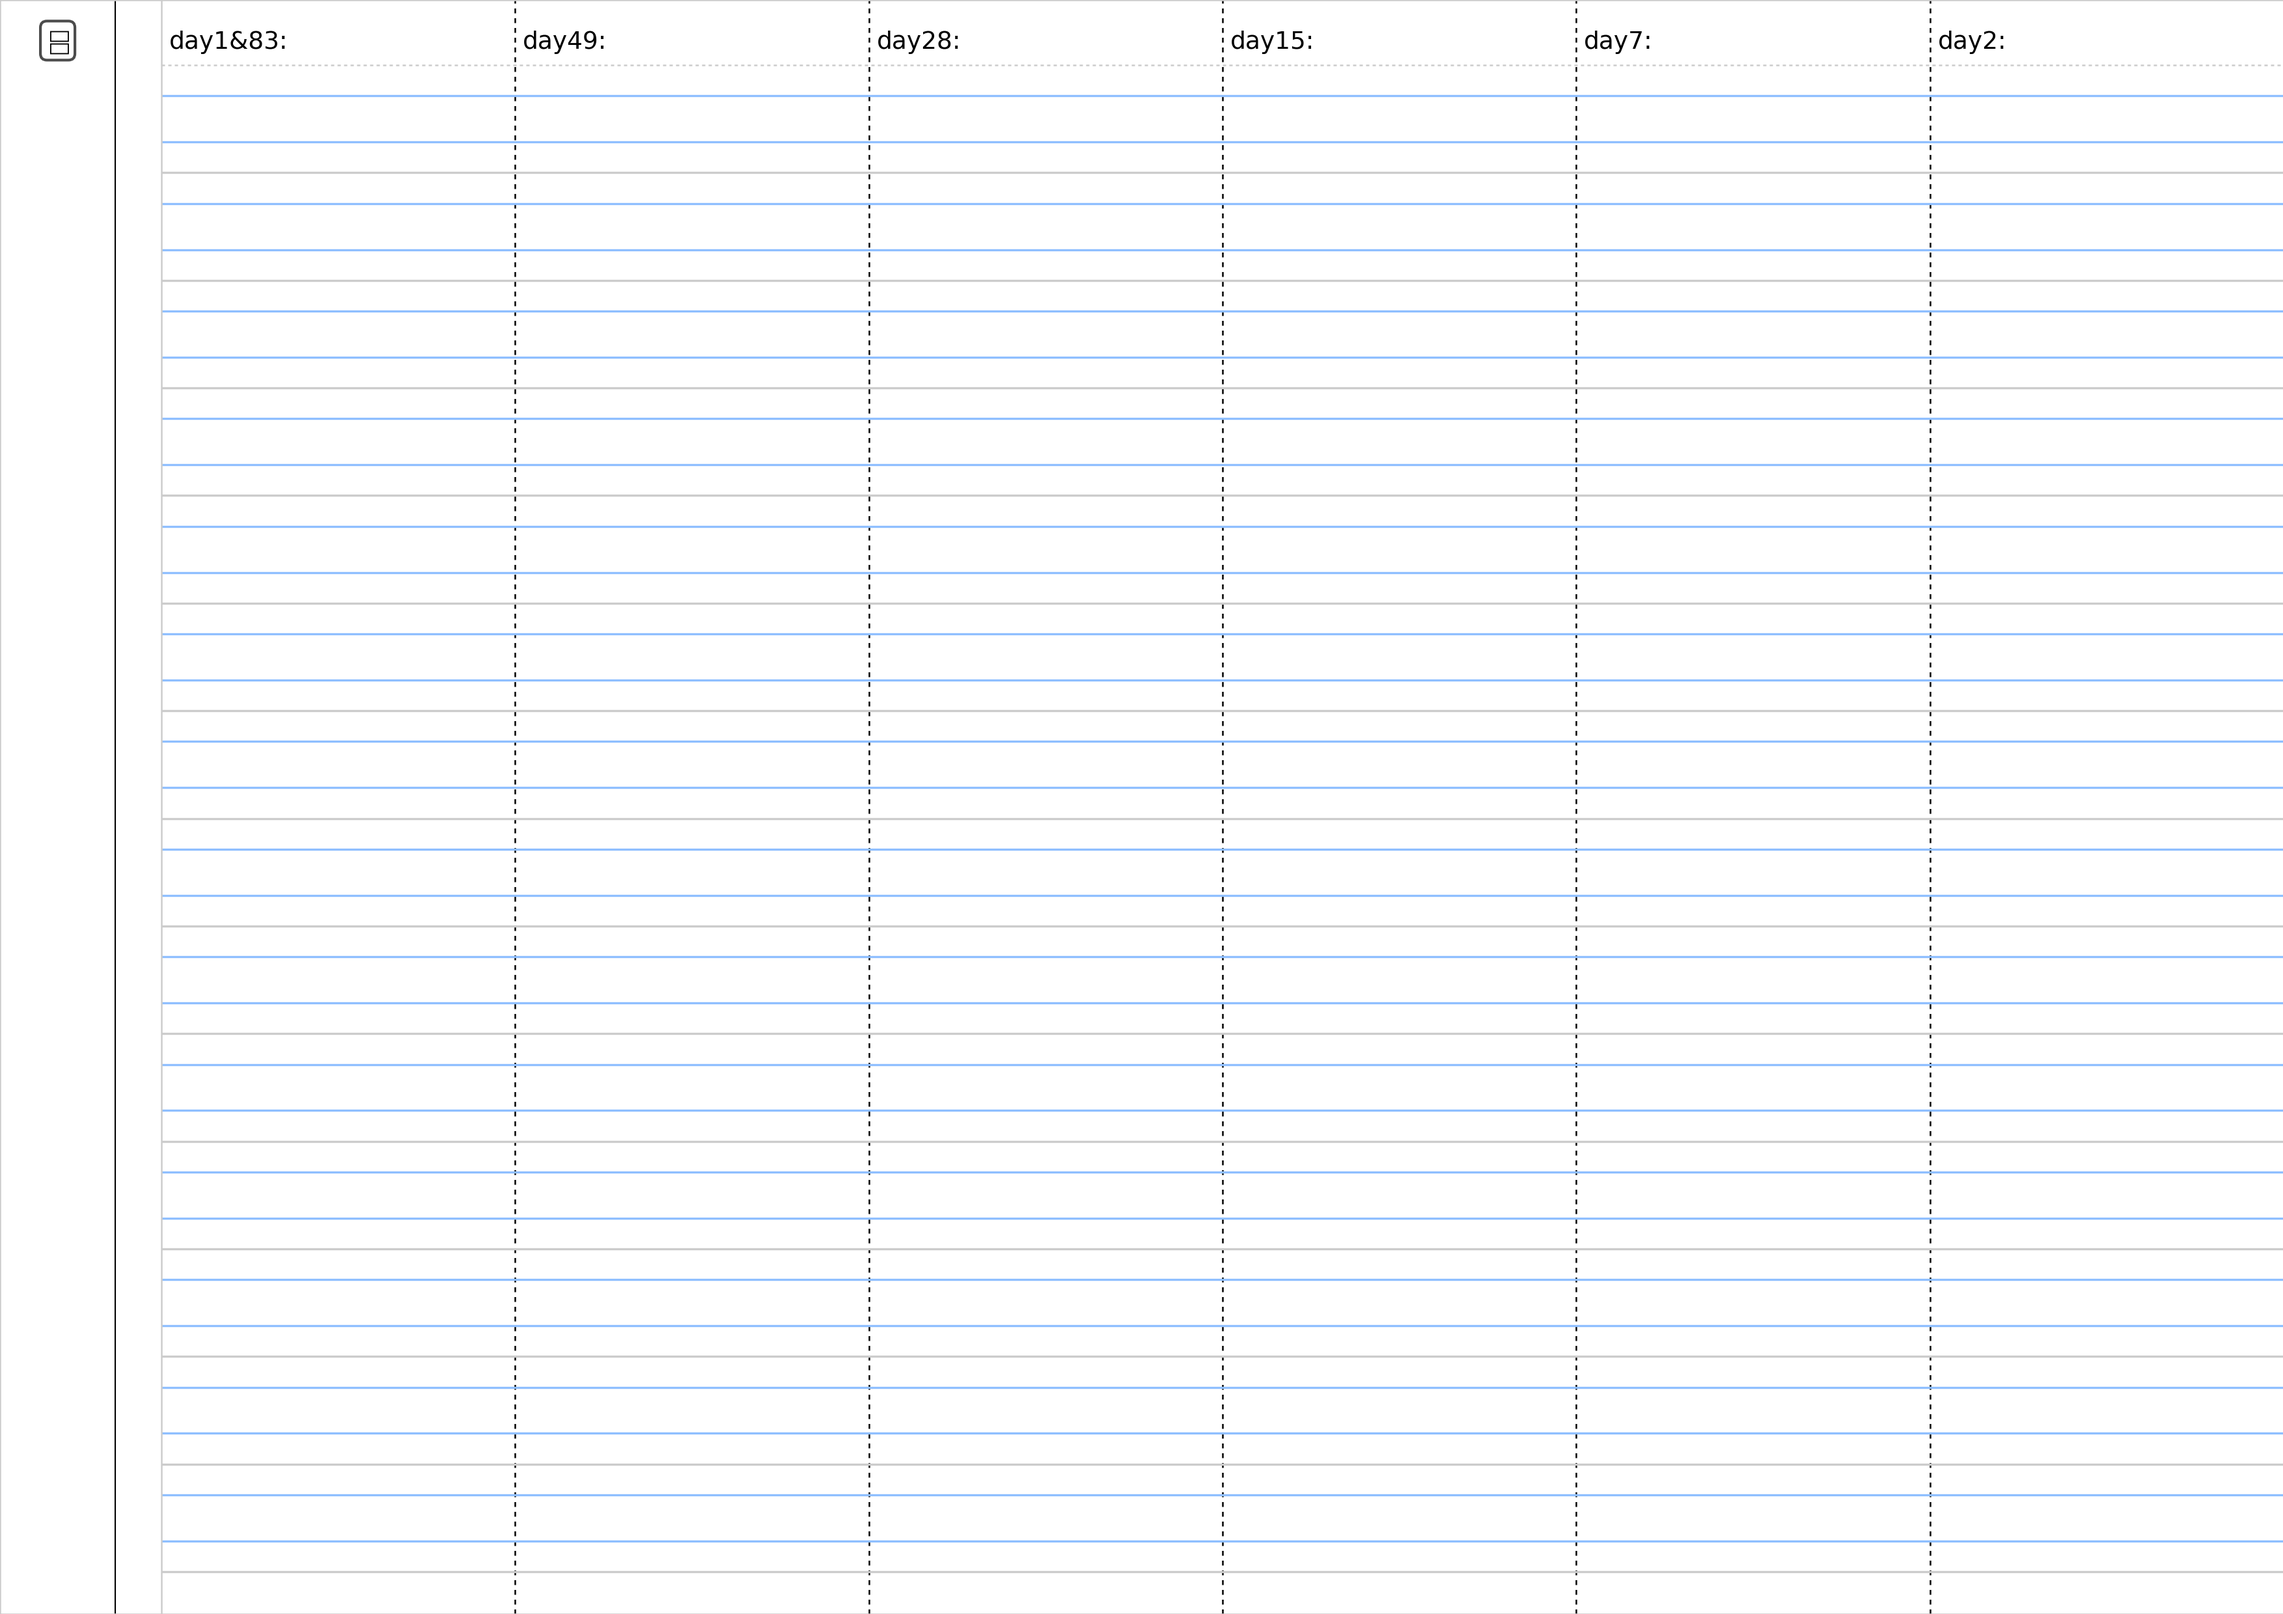
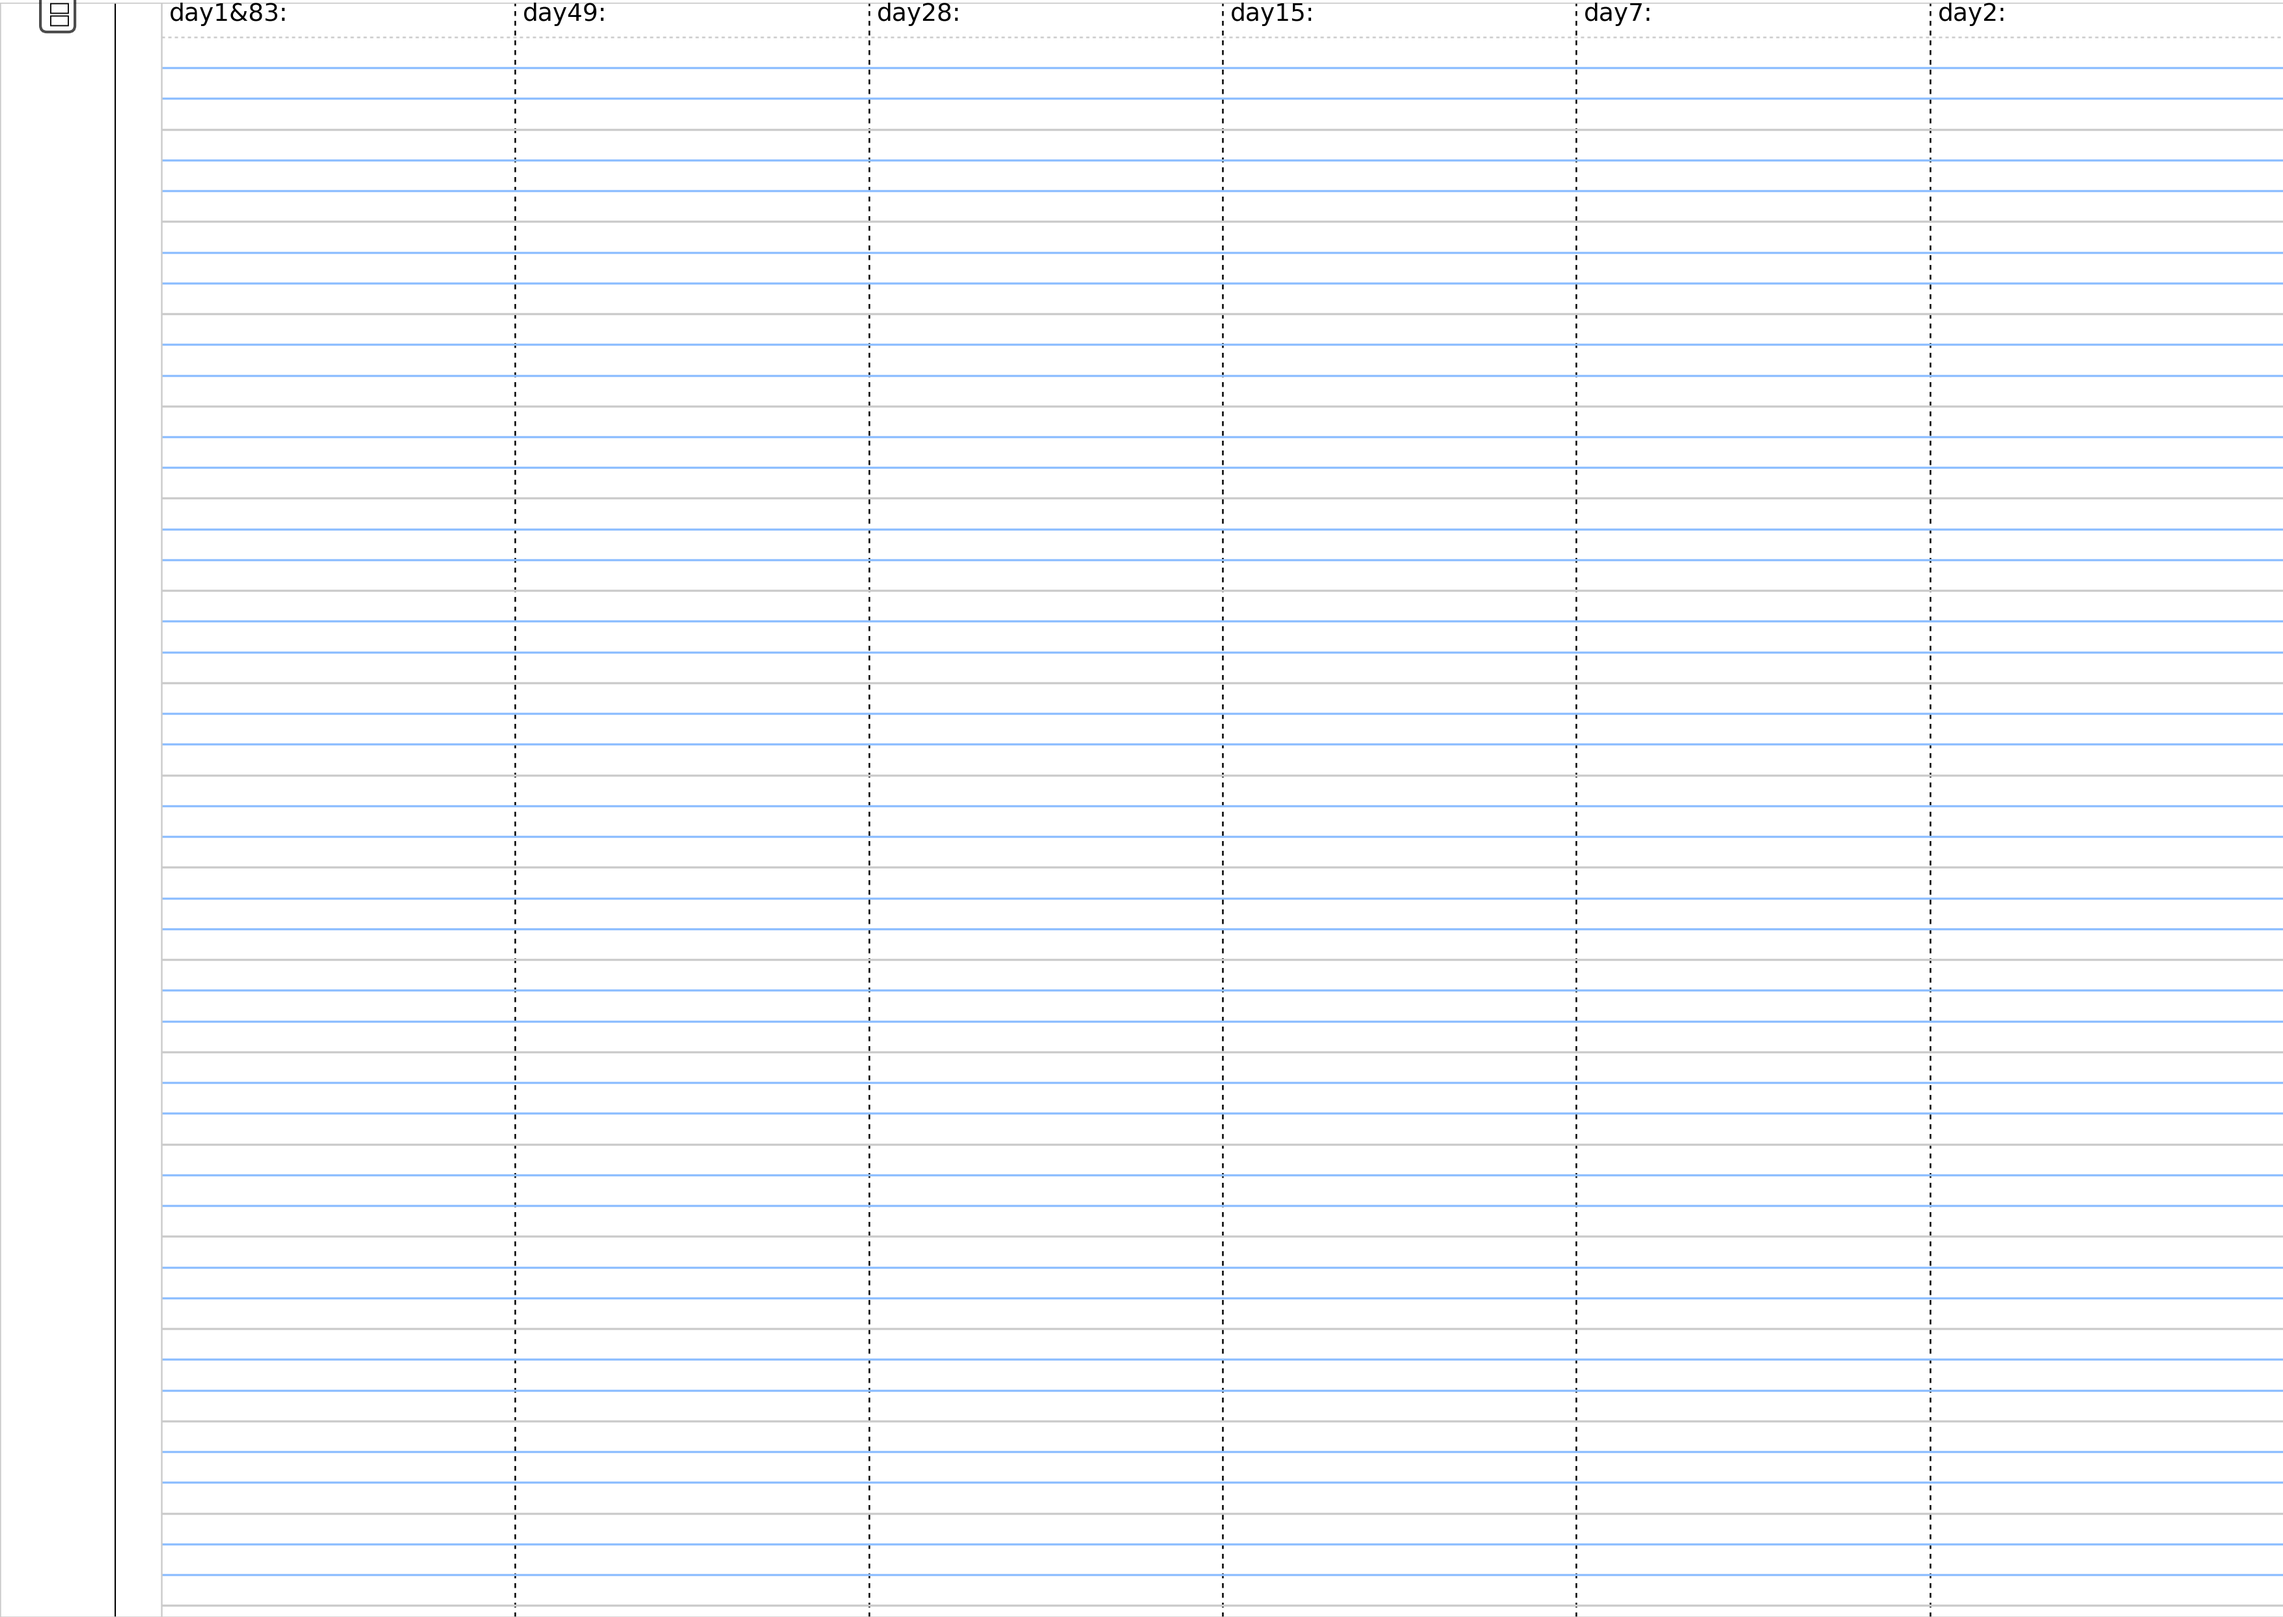
refine English reading log

diff --git a/Cornell_gen_1102.py b/Cornell_gen_1102.py
@@ -1,7 +1,7 @@
 import json
 import sys
 from reportlab.lib.pagesizes import A4, landscape, portrait
-from reportlab.lib.colors import black, lightgrey, blue, lightblue
+from reportlab.lib.colors import black, lightgrey, blue, lightblue,gray
 from reportlab.pdfgen import canvas
 from reportlab.pdfbase import pdfmetrics
 from reportlab.pdfbase.ttfonts import TTFont
@@ -72,9 +72,10 @@ class GridRenderer:
         for i in range(n):
             base_y = y - i * total_row_height
             # Line 1 - light grey dashed line
-            c.setStrokeColor(lightgrey)
-            # c.setDash(1, 2)
+            c.setStrokeColor(gray)
+            c.setDash(1, 2)
             c.line(x, base_y, x + width, base_y)
+            c.setDash()
             # Line 2 - blue dash line
             #c.setDash(1,2)
             c.setStrokeColor(lightblue)
@@ -82,10 +83,11 @@ class GridRenderer:
             # Line 3 - blue solid line
             c.line(x, base_y - row_heights[0] - row_heights[1], x + width, base_y - row_heights[0] - row_heights[1])
             # Line 4 - light grey solid line
-            c.setStrokeColor(lightgrey)
+            c.setDash(1,2)
+            c.setStrokeColor(gray)
             c.line(x, base_y - row_heights[0] - row_heights[1] - row_heights[2], 
                    x + width, base_y - row_heights[0] - row_heights[1] - row_heights[2])
-
+            c.setDash()
     @staticmethod
     def draw_dotted_grid(c, x, y, width, height, dot_spacing=20):
         """

diff --git a/Lianxiben_left_start.py b/Lianxiben_left_start.py
@@ -30,7 +30,7 @@ grid_configs = {
     },
     "英语抄写本（成人）": {
         "upper_h": 4.0,   # 上格 4 mm
-        "middle_h": 6.0,  # 中格 6 mm
+        "middle_h": 4.0,  # 中格 6 mm
         "lower_h": 4.0,   # 下格 4 mm
         "intercell_gap": 0,
         "description": "紧凑，用于速度练习"
